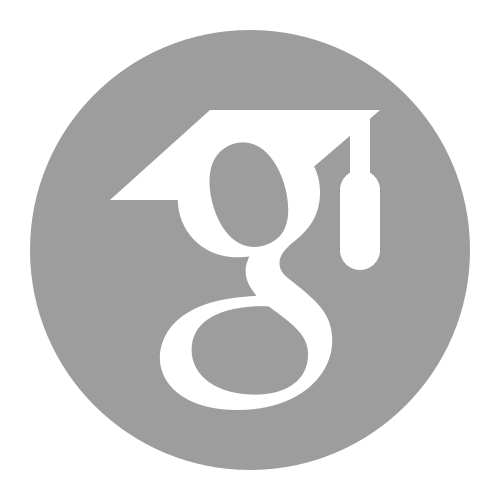
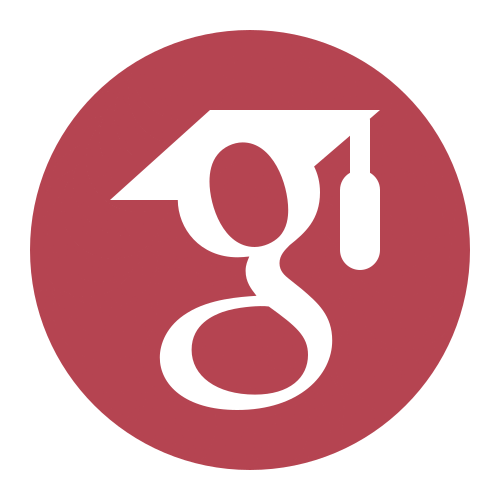
updt

diff --git a/index.html b/index.html
@@ -168,7 +168,7 @@
                 <div class="icn-hov">
                     <img src="invert-gg.png" width="38" style="margin-top:-18px;margin-left:3px">
                     <img src="invert-gg-hov.png" width="38" style="margin-top:-18px;margin-left:3px" class="img-top"> 
-                </div>    
+                </div>        
             </a>
             <a href="https://www.linkedin.com/in/s%C3%A9bastien-annan-phan-01612b75/" style="color:white" class="icn"><li class="fa fa-linkedin-square" style="font-size: 35px;padding:7px;"></li></a>                         
             </ul>              
@@ -234,7 +234,7 @@
 			</div> 
             <!-- Contact Info on the Sidebar -->
             <div class="col-md-4">
-                <div style="font-family: 'Oswald', sans-serif; font-size: 30px;"><b>Sébastien Annan-Phan</b></div><br>
+                <div style="font-family: 'Oswald', sans-serif; font-size: 30px; color:#B21B16"><b>Sébastien Annan-Phan</b></div><br>
 				<img class="img-responsive" src="profile_picture_Annan_Phan_round.jpg" width="250" alt=""><br>	
 				<p><b>PhD Candidate</b><br>
                 Agricultural & Resource Economics<br>

diff --git a/codebeautify.css b/codebeautify.css
@@ -7217,8 +7217,8 @@ button.close {
   }
 }    
 
-a.icn:hover {color: #9D9D9D!important;}
-li.icn:hover {color: #9D9D9D!important;}
+a.icn:hover {color: #B54451!important;}
+li.icn:hover {color: #B54451!important;}
 .icn-hov{
         width: 39px;
         height: 0px;
